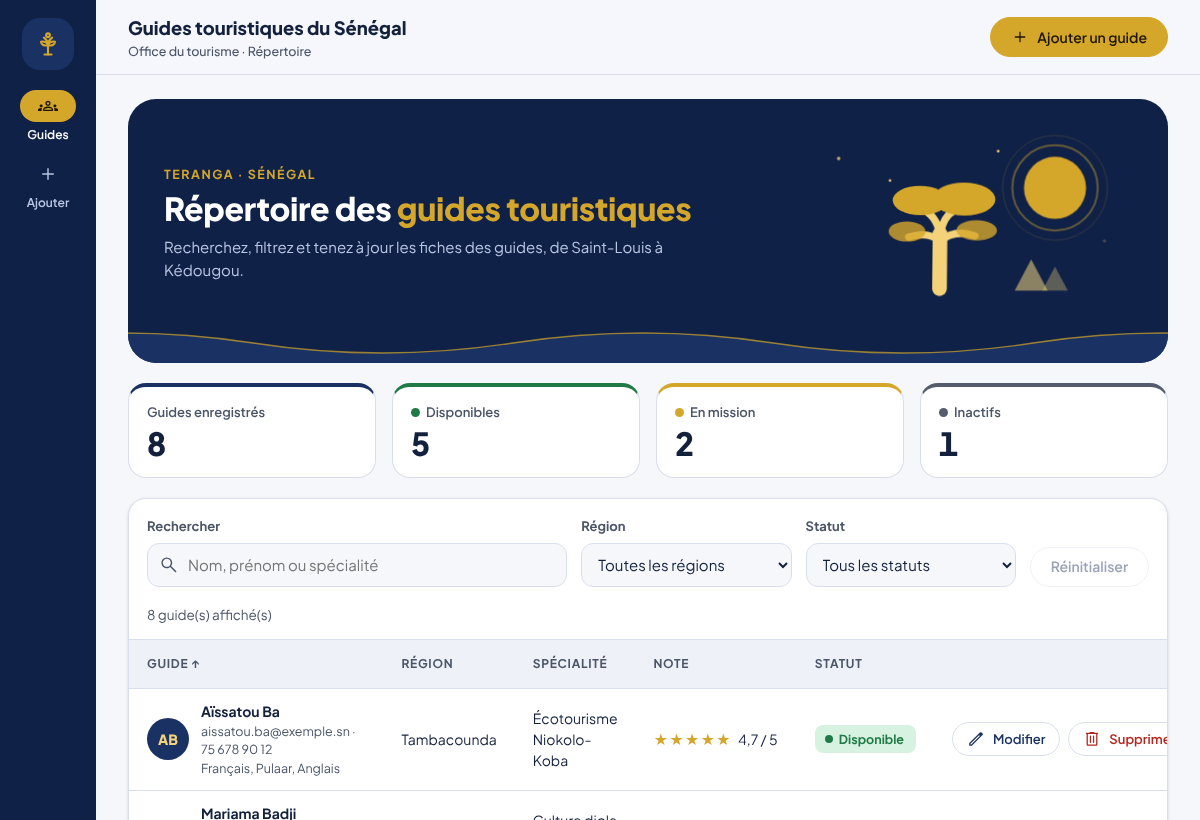
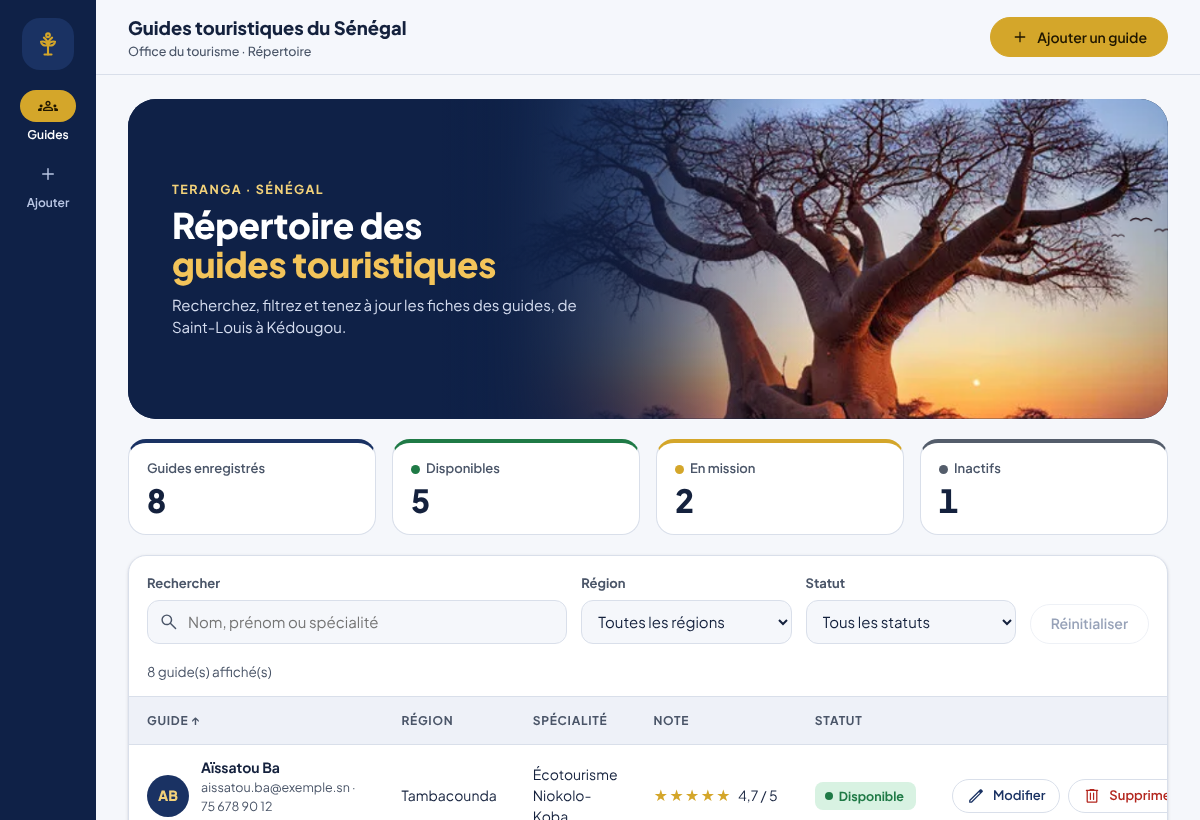
Ajoute la photo du baobab dans le bandeau d'accueil

diff --git a/src/app/components/guide-list/guide-list.css b/src/app/components/guide-list/guide-list.css
@@ -1,26 +1,42 @@
-/* ===== Bandeau d'accueil ===== */
+/* ===== Bandeau d'accueil : photo du baobab au coucher du soleil ===== */
 .bandeau {
-  position: relative; overflow: hidden;
-  display: grid; grid-template-columns: 1.4fr 1fr; align-items: center; gap: 24px;
-  padding: 32px 36px 48px; margin-bottom: 20px; border-radius: var(--rayon-xl);
+  position: relative; overflow: hidden; isolation: isolate;
+  display: flex; align-items: center; min-height: 320px;
+  margin-bottom: 20px; border-radius: var(--rayon-xl);
   background: var(--nuit); color: #fff;
-  /* couleurs utilisées par le dessin SVG */
-  --gold: var(--or); --gold-soft: var(--or-clair); --hero-wave: var(--nuit-2);
 }
-.surtitre { margin: 0 0 6px; font-size: 12.5px; font-weight: 700; letter-spacing: .12em; text-transform: uppercase; color: var(--or); }
-.bandeau h1 { margin: 0; font-size: 2rem; font-weight: 800; line-height: 1.15; }
-.bandeau h1 em { font-style: normal; color: var(--or); }
-.bandeau-texte > p:last-child { margin: 10px 0 0; max-width: 46ch; color: var(--nuit-texte); }
+/* La photo occupe la droite et zoome très lentement */
+.bandeau-photo {
+  position: absolute; top: 0; right: 0; z-index: -2;
+  width: 66%; height: 100%; object-fit: cover; object-position: 55% 45%;
+  transform-origin: 65% 60%; animation: zoom-lent 24s ease-in-out infinite alternate;
+  /* bord gauche fondu dans le bleu nuit */
+  -webkit-mask-image: linear-gradient(90deg, transparent 0%, #000 35%);
+  mask-image: linear-gradient(90deg, transparent 0%, #000 35%);
+}
+/* Voile bleu nuit : le texte reste lisible à gauche */
+.bandeau-voile {
+  position: absolute; inset: 0; z-index: -1;
+  background: linear-gradient(90deg, var(--nuit) 0%, var(--nuit) 30%, rgba(15, 33, 71, .55) 48%, rgba(15, 33, 71, 0) 66%);
+}
+.bandeau-oiseaux { position: absolute; inset: 0; width: 100%; height: 100%; z-index: -1; pointer-events: none; }
+.oiseaux { animation: vol 26s linear infinite; }
+.oiseau path { transform-box: fill-box; transform-origin: center; animation: battre .55s ease-in-out infinite alternate; }
+.oiseau:nth-child(2) path { animation-delay: -.3s; }
+.oiseau:nth-child(3) path { animation-delay: -.15s; }
+
+.bandeau-texte { max-width: 520px; padding: 40px 44px; }
+.surtitre { margin: 0 0 6px; font-size: 12.5px; font-weight: 700; letter-spacing: .12em; text-transform: uppercase; color: var(--or-clair); }
+.bandeau h1 { margin: 0; font-size: 2.2rem; font-weight: 800; line-height: 1.12; }
+.bandeau h1 em { font-style: normal; color: #f3c45a; }
+.bandeau-texte > p:last-child { margin: 10px 0 0; max-width: 46ch; color: #d4dcef; }
 .bandeau-texte > * { animation: monter .6s var(--courbe) both; }
 .bandeau-texte > :nth-child(2) { animation-delay: .08s; }
 .bandeau-texte > :nth-child(3) { animation-delay: .16s; }
 
-/* Décor animé (tous les éléments sont décoratifs : aria-hidden) */
-.bandeau-art { justify-self: end; width: 100%; max-width: 330px; }
-.baobab { transform-origin: 150px 172px; transform-box: view-box; animation: balancer 6s ease-in-out infinite; }
-.sun { transform-origin: 276px 62px; transform-box: view-box; animation: briller 4s ease-in-out infinite; }
-.twinkle { animation: scintiller 2.6s ease-in-out infinite; }
-.bandeau-vague { position: absolute; left: 0; bottom: 0; width: 200%; height: 40px; pointer-events: none; animation: vague 14s linear infinite; }
+@keyframes zoom-lent { to { transform: scale(1.08); } }
+@keyframes vol { from { transform: translate(1260px, 150px); } to { transform: translate(-80px, 95px); } }
+@keyframes battre { to { transform: scaleY(.35); } }
 
 /* ===== Indicateurs ===== */
 .stats { display: grid; grid-template-columns: repeat(4, minmax(0, 1fr)); gap: 16px; margin-bottom: 20px; }
@@ -121,15 +137,17 @@ dialog .actions { justify-content: center; }
 
 /* ===== Tablette ===== */
 @media (max-width: 1000px) {
-  .bandeau { grid-template-columns: 1fr; }
-  .bandeau-art { display: none; }
   .stats { grid-template-columns: repeat(2, minmax(0, 1fr)); }
 }
 
 /* ===== Mobile : le tableau devient une liste de cartes ===== */
 @media (max-width: 760px) {
-  .bandeau { padding: 24px 22px 44px; border-radius: var(--rayon-l); }
-  .bandeau h1 { font-size: 1.5rem; }
+  /* Téléphone : la photo remplit le bandeau, le voile assombrit le haut */
+  .bandeau { min-height: 300px; align-items: flex-start; border-radius: var(--rayon-l); }
+  .bandeau-photo { width: 100%; object-position: 50% 40%; -webkit-mask-image: none; mask-image: none; }
+  .bandeau-voile { background: linear-gradient(180deg, rgba(15, 33, 71, .92) 0%, rgba(15, 33, 71, .7) 45%, rgba(15, 33, 71, .1) 80%); }
+  .bandeau-texte { padding: 26px 22px 90px; }
+  .bandeau h1 { font-size: 1.6rem; }
   .stats { gap: 10px; }
   .stat strong { font-size: 1.6rem; }
   .outils { grid-template-columns: 1fr 1fr; }

diff --git a/src/app/components/guide-list/guide-list.html b/src/app/components/guide-list/guide-list.html
@@ -1,22 +1,20 @@
 <!-- Bandeau d'accueil (décor animé : baobab, soleil, vague) -->
 <section class="bandeau">
+  <!-- Photo de fond (décorative) + voile bleu nuit pour garder le texte lisible -->
+  <img class="bandeau-photo" src="baobab.webp" alt="" width="540" height="360" fetchpriority="high">
+  <div class="bandeau-voile" aria-hidden="true"></div>
+  <svg class="bandeau-oiseaux" viewBox="0 0 1200 380" preserveAspectRatio="xMaxYMid slice" aria-hidden="true">
+    <g class="oiseaux" fill="none" stroke="#2a1a24" stroke-width="2" stroke-linecap="round">
+      <g class="oiseau"><path d="M0,0 q6,-6 12,0 q6,-6 12,0"/></g>
+      <g class="oiseau" transform="translate(28 12) scale(.75)"><path d="M0,0 q6,-6 12,0 q6,-6 12,0"/></g>
+      <g class="oiseau" transform="translate(-22 18) scale(.6)"><path d="M0,0 q6,-6 12,0 q6,-6 12,0"/></g>
+    </g>
+  </svg>
   <div class="bandeau-texte">
     <p class="surtitre">Teranga · Sénégal</p>
     <h1>Répertoire des <em>guides touristiques</em></h1>
     <p>Recherchez, filtrez et tenez à jour les fiches des guides, de Saint-Louis à Kédougou.</p>
   </div>
-      <svg class="bandeau-art" viewBox="0 0 360 200" aria-hidden="true">
-        <circle class="twinkle" cx="40" cy="30" r="2" fill="var(--gold-soft)"/><circle class="twinkle" style="animation-delay:.8s" cx="96" cy="54" r="1.5" fill="var(--gold-soft)"/><circle class="twinkle" style="animation-delay:1.6s" cx="330" cy="120" r="1.8" fill="var(--gold-soft)"/><circle class="twinkle" style="animation-delay:2.2s" cx="214" cy="22" r="1.5" fill="var(--gold-soft)"/>
-        <g class="sun"><circle cx="276" cy="62" r="44" fill="none" stroke="var(--gold)" stroke-width="2" opacity=".45"/><circle cx="276" cy="62" r="54" fill="none" stroke="var(--gold)" stroke-width="1" opacity=".2"/><circle cx="276" cy="62" r="32" fill="var(--gold)"/></g>
-                <g class="baobab">
-          <path d="M150 112 C146 96 140 90 128 84 M150 112 C154 94 160 88 174 82 M150 120 C140 112 128 112 116 116 M150 120 C162 110 176 110 188 114" stroke="var(--gold-soft)" stroke-width="8" stroke-linecap="round" fill="none"/>
-          <ellipse cx="128" cy="76" rx="30" ry="16" fill="var(--gold)"/><ellipse cx="176" cy="74" rx="34" ry="18" fill="var(--gold)"/>
-          <ellipse cx="114" cy="110" rx="20" ry="11" fill="var(--gold)" opacity=".8"/><ellipse cx="190" cy="108" rx="22" ry="11" fill="var(--gold)" opacity=".8"/>
-          <path d="M150 112 V172" stroke="var(--gold-soft)" stroke-width="16" stroke-linecap="round"/>
-        </g>
-        <path d="M232 174 l18 -34 l18 34 z" fill="var(--gold-soft)" opacity=".55"/><path d="M262 174 l14 -26 l14 26 z" fill="var(--gold-soft)" opacity=".35"/>
-      </svg>
-      <svg class="bandeau-vague" viewBox="0 0 2400 60" preserveAspectRatio="none" aria-hidden="true"><path d="M0 30 Q150 0 300 30 T600 30 T900 30 T1200 30 T1500 30 T1800 30 T2100 30 T2400 30 V60 H0Z" fill="var(--hero-wave)"/><path d="M0 30 Q150 0 300 30 T600 30 T900 30 T1200 30 T1500 30 T1800 30 T2100 30 T2400 30" fill="none" stroke="var(--gold)" stroke-width="2" opacity=".7"/></svg>
 </section>
 
 <!-- Indicateurs -->

diff --git a/src/styles.css b/src/styles.css
@@ -110,10 +110,6 @@ app-guide-list, app-guide-form { display: block; animation: monter .45s var(--co
 @keyframes surgir { 0% { opacity: 0; transform: scale(.6); } 70% { transform: scale(1.06); } 100% { transform: scale(1); } }
 @keyframes secouer { 20%, 60% { transform: translateX(-6px); } 40%, 80% { transform: translateX(6px); } }
 @keyframes reflet { from { background-position: -200% 0; } to { background-position: 200% 0; } }
-@keyframes vague { to { transform: translateX(-50%); } }
-@keyframes balancer { 0%, 100% { transform: rotate(-1.6deg); } 50% { transform: rotate(1.6deg); } }
-@keyframes briller { 0%, 100% { transform: scale(1); } 50% { transform: scale(1.06); } }
-@keyframes scintiller { 0%, 100% { opacity: .2; } 50% { opacity: 1; } }
 
 /* Respecte le réglage « réduire les animations » du système */
 @media (prefers-reduced-motion: reduce) {

diff --git a/README.md b/README.md
@@ -187,6 +187,7 @@ Le projet a été réalisé à trois avec Git et GitHub. Chaque membre a travail
 - [angular-cli-ghpages](https://www.npmjs.com/package/angular-cli-ghpages), pour la mise en ligne sur GitHub Pages
 - Guide pratique « pas à pas » Angular fourni par l'enseignant
 - [Plus Jakarta Sans](https://fontsource.org/fonts/plus-jakarta-sans) (licence OFL), police installée avec le paquet npm `@fontsource-variable/plus-jakarta-sans` : elle fonctionne aussi sans connexion
+- Photo du bandeau d'accueil (baobab au coucher du soleil) : *source et licence à compléter*
 - [Material Symbols](https://fonts.google.com/icons) (licence Apache 2.0), icônes copiées en SVG dans `src/index.html`
 - Aucune bibliothèque de composants d'interface : tous les styles et animations sont écrits en CSS
 - Données : personnes, e-mails et numéros **entièrement fictifs**
